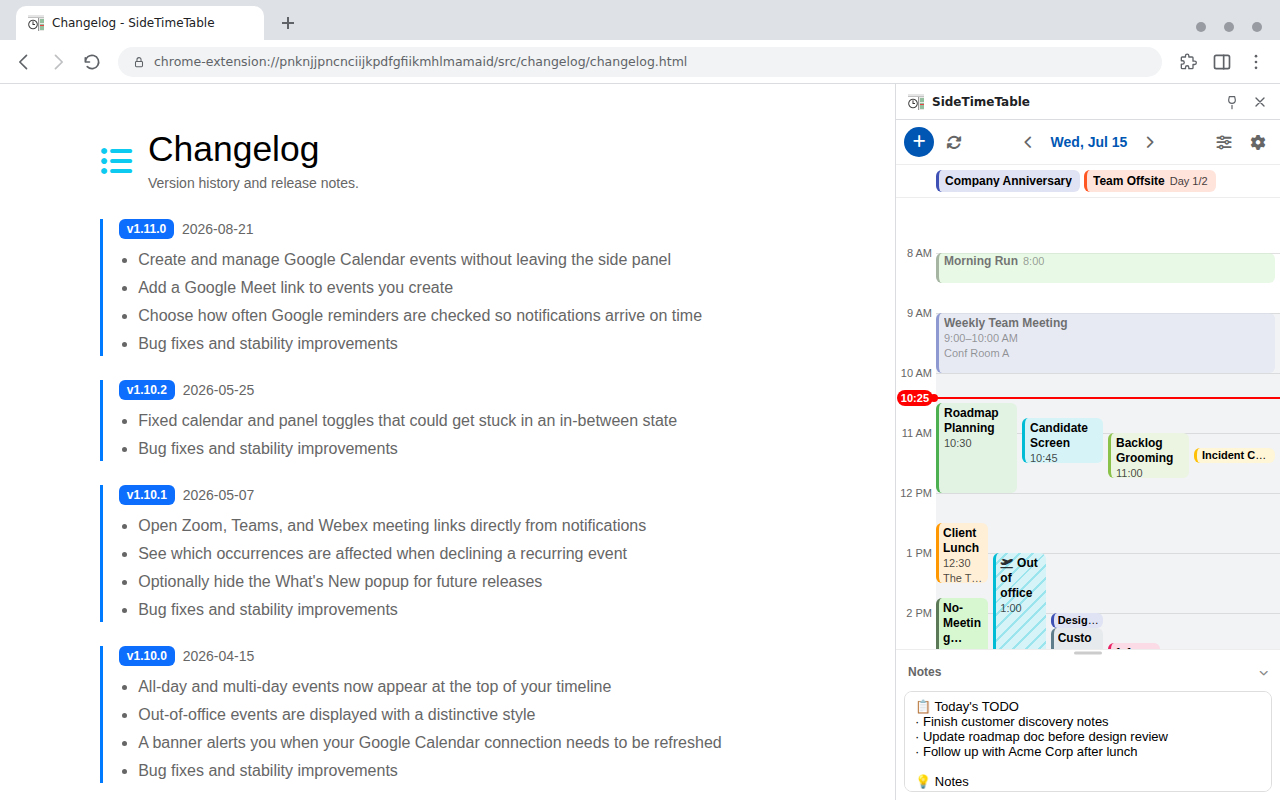
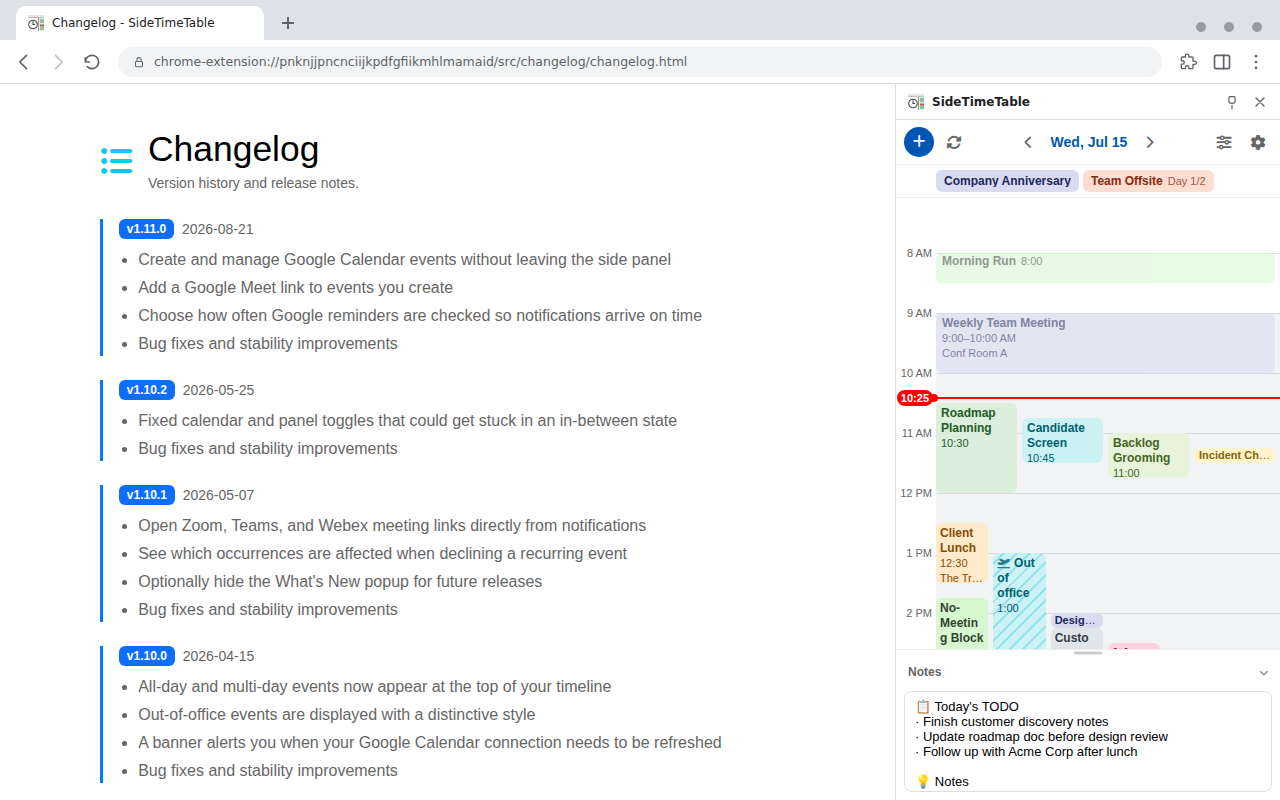
style(side_panel): 予定ブロックと終日チップの左の色バーをやめる
- 左端の色バーをなくし、予定の色の淡い地に、同じ色相の濃い文字で色を表す形に
  （ライトでは色を本文色側へ暗く、ダークでは明るく寄せる）
- 時刻・場所の行もタイトルと同じ色にし、大きさと太さで区別する
- 全8テーマで文字のコントラスト比 4.5 以上を実測で確認
- ストア用スクリーンショットを再生成

Claude-Session: https://claude.ai/code/session_01JGojzp9RE4VbMihkVPwzQv

diff --git a/src/side_panel/side_panel.css b/src/side_panel/side_panel.css
@@ -198,18 +198,17 @@ body {
 .all-day-event-chip {
     --event-color: var(--side-calendar-google-event-default-color);
     --event-tint: 60%;
-    --event-bar-mix: 40%;
+    --event-ink-mix: 40%;
     display: inline-flex;
     align-items: center;
     gap: 5px;
     height: 22px;
     box-sizing: border-box;
     max-width: 100%;
-    padding: 0 8px 0 6px;
-    border-left: 3px solid color-mix(in oklab, var(--event-color), var(--side-calendar-panel-text-color) var(--event-bar-mix));
+    padding: 0 8px;
     border-radius: var(--side-calendar-radius-sm);
     background-color: color-mix(in srgb, var(--event-color) var(--event-tint), var(--side-calendar-panel-background-color));
-    color: var(--side-calendar-panel-text-color);
+    color: color-mix(in oklab, var(--event-color) var(--event-ink-mix), var(--side-calendar-panel-text-color));
     font-size: var(--side-calendar-font-small);
     font-weight: 600;
     line-height: 1;
@@ -472,27 +471,28 @@ body {
     pointer-events: none;
 }
 
-/* Event blocks: a tint of the event's colour with a bar of it down the left
-   edge, and text in the timeline's own text colour, so many colours side by
-   side stay calm and readable in both light and dark themes.
+/* Event blocks: a tint of the event's colour, with the text in a deep shade
+   of the same hue (the colour mixed toward the text colour, so it darkens in
+   light themes and lightens in dark ones). The colour is carried by the
+   block as a whole — no accent stripe — and many colours side by side stay
+   calm and readable.
 
    Theme and local colours are fills (pastels in light themes, deep tones in
-   dark ones), so they are shown strongly and the bar is pulled toward the
-   text colour to still read as a line. A Google calendar's own colour is a
-   strong one: a light tint, and the bar in the colour itself. */
+   dark ones), so they are shown strongly and the text keeps more of the text
+   colour. A Google calendar's own colour is a strong one: a light tint, and
+   more of the colour in the text. */
 .event {
     --event-color: var(--side-calendar-google-event-default-color);
     --event-tint: 60%;
-    --event-bar-mix: 40%;
+    --event-ink-mix: 40%;
     position: absolute;
     left: 40px; /* Matches LAYOUT_CONSTANTS.BASE_LEFT */
     /* width is set by EventLayoutManager */
     box-sizing: border-box;
-    padding: 3px 6px 3px 5px;
-    border-left: 3px solid color-mix(in oklab, var(--event-color), var(--side-calendar-timeline-text-color) var(--event-bar-mix));
+    padding: 3px 6px;
     border-radius: var(--side-calendar-radius-sm);
     background-color: color-mix(in srgb, var(--event-color) var(--event-tint), var(--side-calendar-timeline-background-color));
-    color: var(--side-calendar-timeline-text-color);
+    color: color-mix(in oklab, var(--event-color) var(--event-ink-mix), var(--side-calendar-timeline-text-color));
     z-index: 21;
     overflow: hidden;
     font-size: var(--side-calendar-font-small);
@@ -503,18 +503,21 @@ body {
 
 .event.has-calendar-color,
 .all-day-event-chip.has-calendar-color {
-    --event-tint: 16%;
-    --event-bar-mix: 0%;
+    --event-tint: 20%;
+    --event-ink-mix: 62%;
 }
 
 [data-theme="dark"] .event,
 [data-theme="dark"] .all-day-event-chip {
     --event-tint: 85%;
+    --event-ink-mix: 25%;
 }
 
 [data-theme="dark"] .event.has-calendar-color,
 [data-theme="dark"] .all-day-event-chip.has-calendar-color {
     --event-tint: 30%;
+    /* Dark blues and purples need more of the light text colour to read */
+    --event-ink-mix: 40%;
 }
 
 .event:hover {
@@ -576,8 +579,9 @@ body {
 }
 
 .event-meta {
+    /* Same colour as the title: the size and weight set it apart, so the
+       small text keeps the title's contrast */
     overflow: hidden;
-    color: color-mix(in srgb, currentColor 72%, transparent);
     font-size: var(--side-calendar-font-caption);
     text-overflow: ellipsis;
     white-space: nowrap;

diff --git a/.claude/skills/architecture/SKILL.md b/.claude/skills/architecture/SKILL.md
@@ -144,7 +144,7 @@ Chrome alarm-based reminders:
 - **Responsive width calculation**: Auto-adjusts to side panel width changes via ResizeObserver
 - **Business hours visualization**: Configurable work time highlighting with break time support
 - **Current time indicator**: Managed by `CurrentTimeLineManager` with date-aware visibility; drawn over the events with the time in a pill, and its per-minute tick fades ended events (`is-past`)
-- **Event blocks**: a tint of the event's colour with a 3px bar of it (`--event-color`; `.has-calendar-color` for a Google calendar's own colour), text is title → time → place in one clamped box (`--event-lines`), no description
+- **Event blocks**: a tint of the event's colour with the text in a deep shade of the same hue, no accent stripe (`--event-color`, `--event-tint`, `--event-ink-mix`; `.has-calendar-color` for a Google calendar's own colour), text is title → time → place in one clamped box (`--event-lines`), no description
 - **Scroll positioning**: Smart scroll to current time or business hours
 - **Date navigation**: Integrated with header component for seamless date switching
 
